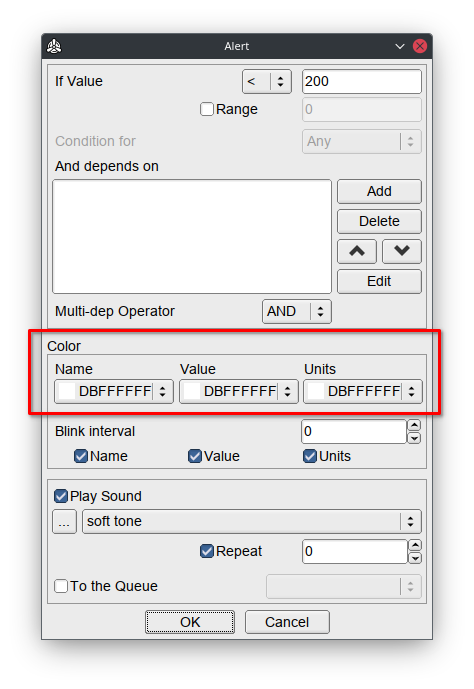
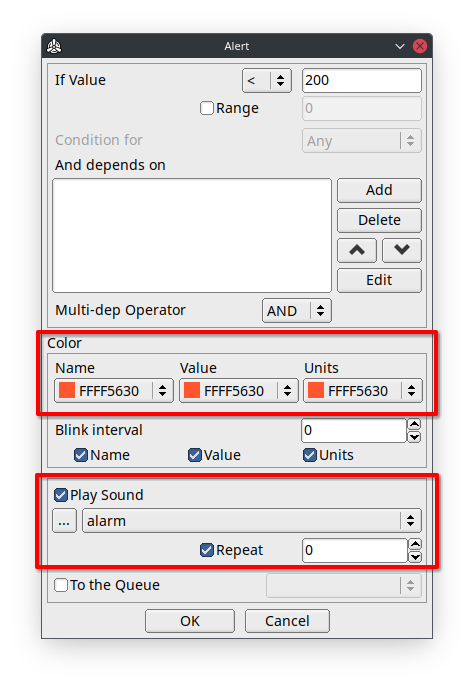
docs: Update Alert section

diff --git a/docs/docs/features.md b/docs/docs/features.md
@@ -94,14 +94,26 @@ If you want to set up colors for a specific indicator, enable the **Separate** C
 #### Alert
 Alerts, allows you to specify a range of values within which you will be alerted visually (color change) or sound playback when the value exceeds the threshold.  
 
+For example, you need an alarm when you are at low altitude.  
+Open the "Altitude, m" settings.  
+Add a new alert condition by clicking the Add button in the Alert section.  
+Then double-click on the new element.  
 ![#](images/wtrti_alert_1.png)
+
+Specify the threshold value (e.g 200 meters)  
+**Note:** Using **<** sign means that this condition will only be triggered for values below 200.  
 ![#](images/wtrti_alert_2.png)
+
+Choose a color and sound.  
 ![#](images/wtrti_alert_3.png)
+
+Click on the OK button.  
+This is it. Go to Test Flight for testing!  
+
 !!! tip
     For sound alerts, it's recommended that you use a 'relative paths' for audio files by selecting them from the WTRTI root directory, e.g. **Sounds** folder.  
     This makes the profile more portable, so you can share it with others.
 ![#](images/wtrti_alert_4.png)
-
 
 ### Advanced
 #### In "State" list
